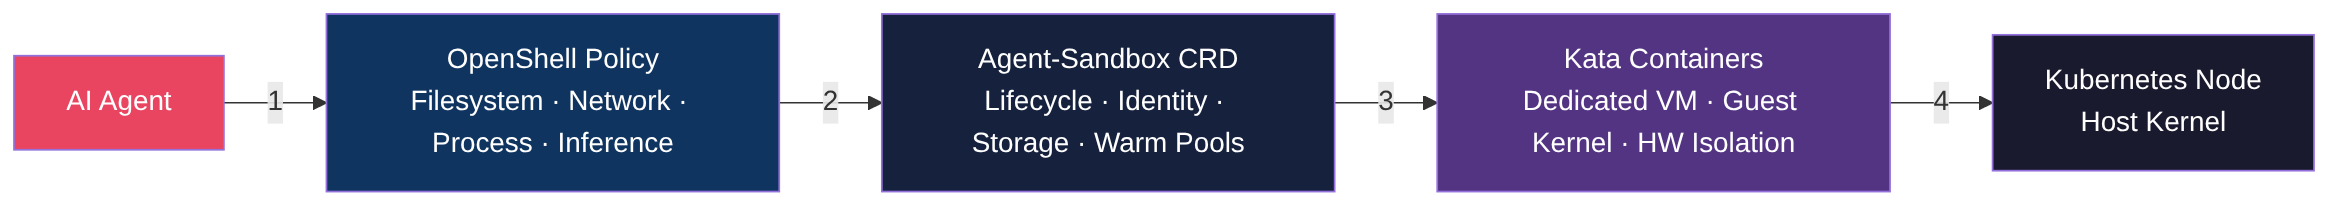
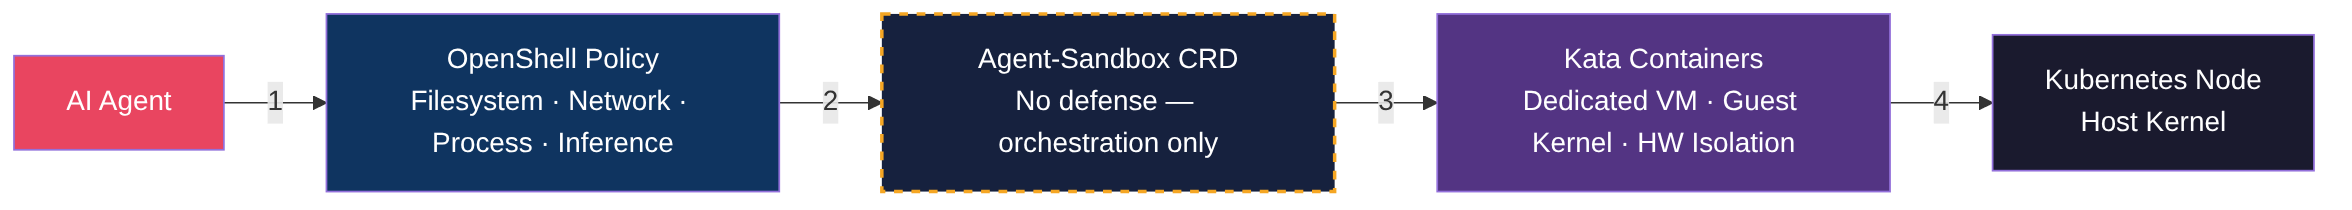
fix defense model, add beyond defense

diff --git a/agent-sandboxing-in-kubernetes.md b/agent-sandboxing-in-kubernetes.md
@@ -76,21 +76,49 @@ graph TB
 ```mermaid
 graph LR
     A[AI Agent] -->|1| B[OpenShell Policy<br/>Filesystem · Network · Process · Inference]
-    B -->|2| C[Agent-Sandbox CRD<br/>Lifecycle · Identity · Storage · Warm Pools]
+    B -->|2| C[Agent-Sandbox CRD<br/>No defense — orchestration only]
     C -->|3| D[Kata Containers<br/>Dedicated VM · Guest Kernel · HW Isolation]
     D -->|4| E[Kubernetes Node<br/>Host Kernel]
 
     style A fill:#e94560,color:#fff
     style B fill:#0f3460,color:#fff
-    style C fill:#16213e,color:#fff
+    style C fill:#16213e,color:#fff,stroke:#f5a623,stroke-width:2px,stroke-dasharray:5 5
     style D fill:#533483,color:#fff
     style E fill:#1a1a2e,color:#fff
 ```
 
 </details>
 
-| Layer | Scope | Isolation Mechanism |
-|---|---|---|
-| **OpenShell** | Application | YAML policies enforcing L7 network rules, filesystem ACLs, process restrictions, and inference routing |
-| **Agent-Sandbox** | Orchestration | Kubernetes CRD managing pod lifecycle, stable identity, persistent storage, hibernation, and warm pools |
-| **Kata Containers** | Runtime | Hardware-virtualized micro-VM with dedicated kernel, providing memory, I/O, and network isolation via VT-x/AMD-V |
+| Layer | Scope | Defense? | Mechanism |
+|---|---|---|---|
+| **OpenShell** | Application | Yes | YAML policies enforcing L7 network rules, filesystem ACLs, process restrictions, and inference routing |
+| **Agent-Sandbox** | Orchestration | **No** | Provides no isolation or security enforcement of its own. It manages pod lifecycle and delegates all defense to the runtime (Kata/gVisor) and policy layer (OpenShell) |
+| **Kata Containers** | Runtime | Yes | Hardware-virtualized micro-VM with dedicated kernel, providing memory, I/O, and network isolation via VT-x/AMD-V |
+
+---
+
+## Beyond Defense: Other Major Features
+
+### OpenShell
+
+OpenShell is primarily a defense layer. Its core value proposition -- policy-enforced filesystem, network, process, and inference controls -- is entirely security-focused. The privacy router (stripping caller credentials, injecting backend credentials for inference) is also a security feature. There are no major non-defense features to call out separately.
+
+### Agent-Sandbox
+
+While Agent-Sandbox provides no security isolation on its own, it is the orchestration backbone for agent workloads:
+
+- **Warm Pools (`SandboxWarmPool`)** -- Pre-provisions a pool of ready-to-go sandboxes so that new agent sessions can be claimed instantly instead of waiting for pod scheduling, image pull, and container startup. Critical for latency-sensitive agent deployments at scale.
+- **Hibernation & Pause** -- Sandboxes can be suspended to persistent storage and resumed later, freeing cluster resources without losing agent state.
+- **Stable Identity & Persistent Storage** -- Each sandbox gets a stable hostname and optional PVC-backed storage that survives restarts, giving agents a durable workspace.
+- **Templated Creation (`SandboxTemplate`, `SandboxClaim`)** -- Standardizes sandbox configuration across teams and enables self-service provisioning through claims against warm pools.
+- **Lifecycle Management** -- Scheduled deletion, automatic cleanup, and pause/resume give operators control over sandbox sprawl.
+
+### Kata Containers
+
+Beyond VM-level isolation, Kata provides capabilities that standard container runtimes cannot:
+
+- **Peer Pods** -- Via the Cloud API Adaptor, Kata can spawn its micro-VMs as actual cloud provider instances (AWS, Azure, GCP, IBM Cloud) rather than local VMs on the worker node. This eliminates the need for bare-metal nodes or nested virtualization, and enables confidential computing (SEV, TDX) on cloud VMs.
+- **VFIO Device Passthrough** -- Because Kata runs a real VM, it can pass through PCI devices (GPUs, FPGAs, SmartNICs) directly to the guest via VFIO, giving the agent near-native hardware access. Standard containers share the host kernel and cannot achieve the same level of direct device assignment.
+- **Multiple Hypervisor Backends** -- Choose between QEMU (full-featured), Cloud-Hypervisor (optimized for cloud workloads), or Firecracker (minimal, fast boot) depending on the tradeoff between feature set and startup latency.
+- **Confidential Containers** -- Integration with the confidential-containers project enables hardware-attested TEEs (Trusted Execution Environments), ensuring that neither the cloud provider nor the host operator can inspect the agent's memory or code.
+- **VSOCKs** -- Direct VM-to-host communication via virtio-vsock, eliminating per-pod proxy overhead and saving ~4.5 MB of RAM per pod in high-density deployments.